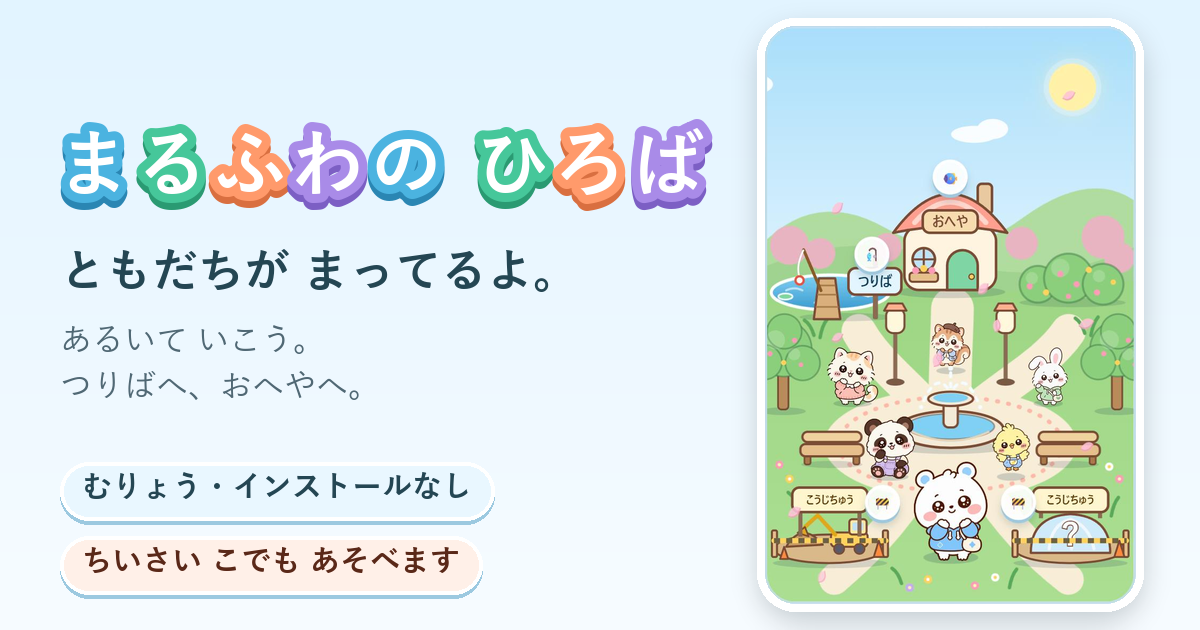
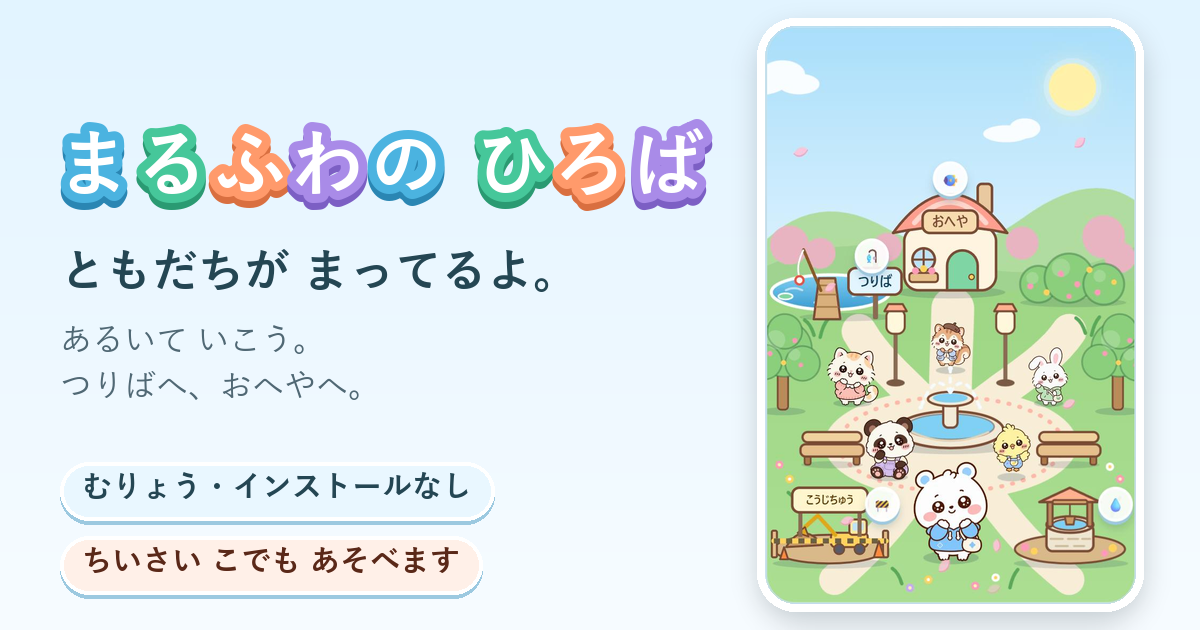
ひろばの「こうじちゅう」を 1つに へらし、もう 1つを「いど」に かえた（外部レビュー5「ひろばが さびしい」）
総司令部経由(外部レビュー5・実際に 遊んだ 人)：おにぎりキャッチを 外した あと、「こうじちゅう」が 2つ ならんで
「半分 できていない 場所」に 見える。→ 1つに へらし、もう 1つは「押したら 何か 起きる」小さな 物に 置きかえる。

- 右下の こうじちゅう(？の ドーム・lot2・kouji2)を 廃止。左下の こうじちゅう(かんばんの うらがえり)は そのまま
- 右下に「いど」を 置いた(石の 井戸・屋根・ロープ・つるべ・はなの 色は きせつで かわる・ふゆは 屋根に 雪・しゃしんにも 写る)
- いどを さわる／「いど」ボタン(ほかの ばしょ)／スペースキー で のぞく：水面の まるを 出して、まるふわの かおが うつる。
  3回に 1回(見えない ところで 数える)、さかなの かげが すーっと とおる。音は ぽちゃん。読みあげは 「いどを のぞいたよ。みずの おもてに、まるふわの かおが うつって いるよ」／「いどの なかを、さかなの かげが すーっと とおったよ」
- かぞえない・くらべない・きろくしない(ひみつノートにも 出さない)・なにも へらない・罰も ない・数字を 出さない
- うごきを へらす 設定：水の わ・ゆれ・さかなの およぎは せず、ふっと 出て きえる だけ(opacity だけ)。ちかちかは しない。水面は 4びょうほどで かならず きえる
- ボタンの まとまりは aria-label「ほかの ばしょ」(前は「まだ できて いない ばしょ」)。English は ひろば自身の 表に 追加
  (Well／Take a look／Other places／Walking to the well.／In front of the well. Press Space to look in.／…)
- 近づいた しらせは「いどの まえ。スペースキーで のぞけるよ」(はいれる、とは 言わない)
- 直した ついで：いどを のぞいた 読みあげを「〇〇の まえ」の しらせが 上書きしないようにした
- 共有カード og.png を 新しい ひろばで 作りなおし(右下が いど)

検査: ひろば 227 → 238(工事中1つ・いどの 試験 11を 足した)・プライバシー 20・種類 37＋English 16・
文字の色 昼夜 23＋23(いどを のぞいた 場面を 足した)・ちかちか 19(いどの 場面を 足した)
未確認: 実機の 見え方・耳での 確認・小さい子や 障がいのある人の 指や 読みあげでの 使い心地

push は していない。

diff --git a/hiroba/index.html b/hiroba/index.html
@@ -201,7 +201,7 @@ button.zk.on{--c1:#fff4c2;--c2:#ffe27a99}
 .mark{position:absolute;left:50%;top:-6%;transform:translateX(-50%);z-index:2;width:34px;height:34px;display:flex;align-items:center;justify-content:center;font-size:1.15rem;line-height:1;background:#ffffffe6;border:3px solid #fff;border-radius:50%;box-shadow:0 3px 0 #9cc9e0,0 6px 8px #24465333;animation:markbob 2.2s ease-in-out infinite;pointer-events:none}
 .prop[data-id=pier] .mark{left:74%}
 .prop[data-id=lot1] .mark{left:92%;top:2%}
-.prop[data-id=lot2] .mark{left:8%;top:2%}
+.prop[data-id=well] .mark{left:86%;top:2%}
 @supports (width:1cqw){#scene{container-type:inline-size}.mark{width:clamp(22px,9.44cqw,34px);height:clamp(22px,9.44cqw,34px);font-size:clamp(.8rem,3.19cqw,1.15rem);border-width:clamp(2px,.83cqw,3px)}}   /* せまい がめんでは しるしを ちいさく（かんばんの もじに かぶらない）。しるしは かざり */
 @keyframes markbob{50%{translate:0 -4px}}
 /* ひとの すがた。かげ・からだの ゆれは JS。じっと している ときは ゆっくり いきを する */
@@ -222,6 +222,12 @@ button.pulse{animation:snapPulse 1.2s ease-in-out infinite;outline:3px solid #ff
 @keyframes snapPulse{50%{scale:1.06}}
 @media(prefers-reduced-motion:reduce){button.pulse{animation:none}}
 .kouji-back{position:absolute;left:19%;top:1%;width:62%;height:31%;display:flex;align-items:center;justify-content:center;text-align:center;background:#fff6cf;border:2.5px solid #7a4b34;border-radius:8px;color:#593700;font-weight:900;font-size:clamp(9px,2.9vw,12px);line-height:1.2;pointer-events:none;z-index:2}   /* こうじちゅうの かんばんの うら（きつねの 字・5回で うらがえり） */
+.well-look{position:absolute;z-index:950;pointer-events:none;width:27%;aspect-ratio:1;translate:-50% -50%;border-radius:50%;overflow:hidden;border:4px solid #fff;box-shadow:0 0 0 3px #7a4b34,0 8px 14px #24465340;background:radial-gradient(circle at 50% 38%,#d5effb,#6fb8df 68%,#3f86b3)}   /* いどを のぞいた 水面（まるふわの かおが うつる・ときどき さかなの かげ） */
+.well-look img{position:absolute;left:4%;top:8%;width:92%;height:auto;opacity:.92;filter:saturate(.9) blur(.5px)}
+.well-look::after{content:"";position:absolute;inset:0;border-radius:50%;background:linear-gradient(#8fd0f055,#3f86b366);pointer-events:none}
+.well-look .wl-ring{position:absolute;inset:12%;border-radius:50%;border:2px solid #ffffffb8;z-index:2}
+.well-look .wl-ring.b{inset:30%}
+.well-look .wl-fish{position:absolute;left:14%;top:56%;width:72%;height:auto;opacity:.6;z-index:1}
 .actor.sitting img{translate:0 6px}   /* ベンチで ひとやすみ：すわる 絵は ないので、ベンチの まえへ ちょっと さげて おく */
 #wishstars{position:absolute;inset:0;z-index:3;pointer-events:none}
 .wstar{position:absolute;width:44px;height:44px;margin:-22px 0 0 -22px;display:grid;place-items:center;font-size:15px;line-height:1;color:#ffe27a;text-shadow:0 0 6px #fff6b0;opacity:.78;cursor:pointer;pointer-events:auto;animation:wtwinkle 3.6s ease-in-out infinite;animation-delay:calc(var(--d,0) * 1s)}   /* つりばで ねがった ぶんの 星（よるだけ・さわれる・44px） */
@@ -247,6 +253,7 @@ button[data-dest=oheya]{--c1:#fff0ec;--c2:#ffb8a8;--side:#df806f;--ink:#5a1f14}
 #places-wait{display:grid;grid-template-columns:repeat(2,1fr);gap:10px;margin:0 0 14px}
 #places-wait button{min-height:68px;--c1:#fff8d8;--c2:#ffe59a;--side:#d39a1c;--ink:#593700;border-style:dashed}
 #places-wait button b{font-size:1.4rem}
+#places-wait button[data-dest=ido]{--c1:#e9f7ff;--c2:#a9dcf5;--side:#4a9fca;--ink:#0f3a55;border-style:solid}
 /* ともだち */
 #friends h2{font-size:1rem;margin:4px 0 0;text-align:center}
 #pal-row{display:flex;gap:6px 6px;justify-content:center;flex-wrap:wrap;list-style:none;padding:0;margin:6px 0 10px}
@@ -401,9 +408,9 @@ body.calm .cloud.c2{left:56%}
     <button type="button" data-dest="tsuri"><b aria-hidden="true">🎣</b>つりば<small>つりびより</small></button>
     <button type="button" data-dest="oheya"><b aria-hidden="true">🐠</b>まるふわの おへや<small>すいそう</small></button>
   </nav>
-  <nav id="places-wait" aria-label="まだ できて いない ばしょ">
+  <nav id="places-wait" aria-label="ほかの ばしょ">
     <button type="button" data-dest="kouji1"><b aria-hidden="true">🚧</b>こうじちゅう<small>ちかぢか あそべます <span aria-hidden="true">🎈</span></small></button>
-    <button type="button" data-dest="kouji2"><b aria-hidden="true">🚧</b>こうじちゅう<small>ちかぢか あそべます <span aria-hidden="true">✨</span></small></button>
+    <button type="button" data-dest="ido"><b aria-hidden="true">💧</b>いど<small>のぞいて みよう</small></button>
   </nav>
 
   <section id="friends" aria-labelledby="friends-title">
@@ -647,6 +654,7 @@ const sfx = {
   splash: pan => { zap(.09, 0, .05, pan); tone(880, .05, 'square', .02, .03, 1320, pan); },
   spin: () => chord([523, 659, 784, 1047, 784, 1047, 1319], .05),
   water: pan => tone(1568, .04, 'triangle', 0, .04, 2093, pan),
+  well: pan => { tone(392, .1, 'triangle', 0, .04, 294, pan); tone(587, .07, 'triangle', .13, .03, 440, pan); },
   bird: pan => asKind('amb', () => { tone(2400, .045, 'square', 0, .012, 3000, pan); tone(3000, .045, 'square', .07, .012, 2500, pan); }),
   cricket: pan => asKind('amb', () => { for (let i = 0; i < 3; i++) tone(4200, .02, 'square', i * .05, .006, 0, pan); })
 };
@@ -743,7 +751,7 @@ const SVG = {
   bench: `<svg viewBox="0 0 70 38" xmlns="http://www.w3.org/2000/svg"><ellipse cx="35" cy="34" rx="30" ry="3.5" fill="#0b2a4a" opacity=".14"/><rect x="8" y="24" width="6" height="10" rx="2" fill="#a9794a" stroke="#7a4b34" stroke-width="1.6"/><rect x="56" y="24" width="6" height="10" rx="2" fill="#a9794a" stroke="#7a4b34" stroke-width="1.6"/><rect x="4" y="14" width="62" height="12" rx="5" fill="#e5bf8c" stroke="#7a4b34" stroke-width="2.2"/><rect x="6" y="2" width="58" height="10" rx="5" fill="#f0d29e" stroke="#7a4b34" stroke-width="2.2"/></svg>`,
   lot1: `<svg viewBox="0 0 122 80" xmlns="http://www.w3.org/2000/svg"><ellipse cx="61" cy="76" rx="56" ry="5" fill="#0b2a4a" opacity=".15"/><ellipse cx="60" cy="62" rx="54" ry="14" fill="#d9b98a" stroke="#7a4b34" stroke-width="2"/><path d="M18 60 Q34 34 54 58Z" fill="#c99a62" stroke="#7a4b34" stroke-width="2" stroke-linejoin="round"/><g><rect x="62" y="46" width="36" height="14" rx="4" fill="#ffd25e" stroke="#7a4b34" stroke-width="2"/><rect x="80" y="33" width="17" height="15" rx="3" fill="#ffe9a0" stroke="#7a4b34" stroke-width="2"/><rect x="83" y="36" width="11" height="8" rx="2" fill="#bfe3f5"/><circle cx="70" cy="62" r="5" fill="#5a5a66" stroke="#7a4b34" stroke-width="1.6"/><circle cx="90" cy="62" r="5" fill="#5a5a66" stroke="#7a4b34" stroke-width="1.6"/><g class="arm"><path d="M66 48 L48 30 L36 42" fill="none" stroke="#e0a61c" stroke-width="4" stroke-linecap="round" stroke-linejoin="round"/><path d="M36 42 l-7 6 l11 3z" fill="#e0a61c" stroke="#7a4b34" stroke-width="1.6" stroke-linejoin="round"/></g></g><g stroke="#7a4b34" stroke-width="2"><rect x="4" y="44" width="5" height="26" rx="1.5" fill="#e5bf8c"/><rect x="113" y="44" width="5" height="26" rx="1.5" fill="#e5bf8c"/></g><line x1="6" y1="54" x2="116" y2="54" stroke="#ffd25e" stroke-width="5" stroke-linecap="round"/><line x1="6" y1="54" x2="116" y2="54" stroke="#3a3a3a" stroke-width="5" stroke-dasharray="6 6" opacity=".75"/><path d="M104 70 l5-16 l5 16z" fill="#ff8a3c" stroke="#7a4b34" stroke-width="1.8" stroke-linejoin="round"/><path d="M12 72 l4-12 l4 12z" fill="#ff8a3c" stroke="#7a4b34" stroke-width="1.8" stroke-linejoin="round"/><rect x="30" y="24" width="4" height="26" fill="#8a6a52"/><rect x="88" y="24" width="4" height="26" fill="#8a6a52"/><rect x="24" y="2" width="74" height="24" rx="7" fill="#fff6cf" stroke="#7a4b34" stroke-width="2.5"/><text x="61" y="18" text-anchor="middle" font-size="11" font-weight="900" fill="#593700" font-family="system-ui,sans-serif">こうじちゅう</text></svg>`,
   stone: `<svg viewBox="0 0 34 52" xmlns="http://www.w3.org/2000/svg"><ellipse cx="17" cy="49" rx="15" ry="3.4" fill="#0b2a4a" opacity=".16"/><path d="M5 48 L5 22 Q5 10 17 10 Q29 10 29 22 L29 48Z" fill="#e9e2d4" stroke="#7a4b34" stroke-width="2" stroke-linejoin="round"/><path d="M9 44 V23 Q9 15 15 14" fill="none" stroke="#fff" stroke-width="2.4" stroke-linecap="round" opacity=".8"/><path d="M17 1 l2.6 5.6 l6 .7 l-4.5 4 l1.3 6 l-5.4 -3.1 l-5.4 3.1 l1.3 -6 l-4.5 -4 l6 -.7z" fill="#ffe27a" stroke="#e0a61c" stroke-width="1.3" stroke-linejoin="round" transform="translate(0 -1)"/><rect x="9" y="28" width="16" height="10" rx="3" fill="#fff6cf" stroke="#c99a62" stroke-width="1.2"/><text x="17" y="35.6" text-anchor="middle" font-size="4.6" font-weight="900" fill="#7a4b34" font-family="system-ui,sans-serif">ありがとう</text></svg>`,
-  lot2: `<svg viewBox="0 0 122 80" xmlns="http://www.w3.org/2000/svg"><ellipse cx="61" cy="76" rx="56" ry="5" fill="#0b2a4a" opacity=".15"/><ellipse cx="60" cy="62" rx="54" ry="14" fill="#d9b98a" stroke="#7a4b34" stroke-width="2"/><path d="M22 66 Q22 30 61 28 Q100 30 100 66Z" fill="#cfeaf9" stroke="#7a4b34" stroke-width="2.2" stroke-linejoin="round"/><path d="M40 62 Q42 38 61 33 M62 62 Q66 38 61 33 M84 62 Q80 40 61 33" fill="none" stroke="#ffffffb0" stroke-width="3" stroke-linecap="round"/><text x="61" y="58" text-anchor="middle" font-size="28" font-weight="900" fill="#fff" stroke="#7a4b34" stroke-width="2" paint-order="stroke" font-family="system-ui,sans-serif">？</text><g stroke="#7a4b34" stroke-width="2"><rect x="4" y="44" width="5" height="26" rx="1.5" fill="#e5bf8c"/><rect x="113" y="44" width="5" height="26" rx="1.5" fill="#e5bf8c"/></g><line x1="6" y1="54" x2="116" y2="54" stroke="#ffd25e" stroke-width="5" stroke-linecap="round"/><line x1="6" y1="54" x2="116" y2="54" stroke="#3a3a3a" stroke-width="5" stroke-dasharray="6 6" opacity=".75"/><path d="M104 70 l5-16 l5 16z" fill="#ff8a3c" stroke="#7a4b34" stroke-width="1.8" stroke-linejoin="round"/><rect x="30" y="24" width="4" height="8" fill="#8a6a52"/><rect x="88" y="24" width="4" height="8" fill="#8a6a52"/><rect x="24" y="2" width="74" height="24" rx="7" fill="#fff6cf" stroke="#7a4b34" stroke-width="2.5"/><text x="61" y="18" text-anchor="middle" font-size="11" font-weight="900" fill="#593700" font-family="system-ui,sans-serif">こうじちゅう</text></svg>`
+  well: `<svg viewBox="0 0 122 80" xmlns="http://www.w3.org/2000/svg"><ellipse cx="61" cy="76" rx="56" ry="5" fill="#0b2a4a" opacity=".15"/><ellipse cx="60" cy="62" rx="54" ry="14" fill="#d9b98a" stroke="#7a4b34" stroke-width="2"/><g stroke="#7a4b34" stroke-linejoin="round"><rect x="37" y="38" width="46" height="26" rx="6" fill="#efe6d2" stroke-width="2.4"/><path d="M45 44 h10 M62 44 h12 M41 52 h12 M58 52 h10 M72 52 h8 M46 59 h12 M64 59 h10" stroke="#cdbb9a" stroke-width="2" stroke-linecap="round" fill="none"/><ellipse cx="60" cy="38" rx="23" ry="8" fill="#efe6d2" stroke-width="2.4"/><ellipse cx="60" cy="38" rx="17" ry="5.4" style="fill:var(--water1)" stroke-width="1.6"/><rect x="38" y="12" width="5" height="28" rx="2" fill="#b98a5a" stroke-width="2"/><rect x="77" y="12" width="5" height="28" rx="2" fill="#b98a5a" stroke-width="2"/><path d="M30 16 L60 2 L90 16Z" fill="#ffb18f" stroke-width="2.4"/><rect x="43" y="14" width="34" height="4" rx="2" fill="#d5a06a" stroke-width="1.8"/></g><path d="M38 12 L60 2.5 L82 12 Q60 8 38 12Z" fill="#fff" stroke="none" style="opacity:var(--cap,0)"/><path d="M60 18 V30" stroke="#7a4b34" stroke-width="1.6"/><path d="M55 30 h10 l-1.5 8 h-7z" fill="#c99a62" stroke="#7a4b34" stroke-width="1.8" stroke-linejoin="round"/><g stroke="none" style="opacity:var(--blo,1)"><circle cx="16" cy="60" r="4" style="fill:var(--bl1,#ff9ab8)"/><circle cx="25" cy="64" r="3.4" style="fill:var(--bl2,#ffd25e)"/><circle cx="102" cy="61" r="4" style="fill:var(--bl2,#ffd25e)"/><circle cx="94" cy="66" r="3.4" style="fill:var(--bl1,#ff9ab8)"/></g></svg>`,
 };
 const PROPS = [
   { id: 'pier', x: 78, y: 286, w: 104, h: 76, svg: SVG.pier, dest: 'tsuri', mark: '🎣' },
@@ -758,14 +766,14 @@ const PROPS = [
   { id: 'bench-r', x: 296, y: 430, w: 70, h: 38, svg: SVG.bench, secret: 'bench', block: { rect: [262, 418, 330, 432] } },
   { id: 'stone', x: 342, y: 446, w: 30, h: 46, svg: SVG.stone, dest: 'thanks', mark: '⭐', block: { rect: [326, 430, 360, 450] } },
   { id: 'lot1', x: 62, y: 526, w: 122, h: 80, svg: SVG.lot1, dest: 'kouji1', mark: '🚧', block: { rect: [0, 452, 126, 528] } },
-  { id: 'lot2', x: 298, y: 526, w: 122, h: 80, svg: SVG.lot2, dest: 'kouji2', mark: '🚧', block: { rect: [234, 452, 360, 528] } }
+  { id: 'well', x: 298, y: 526, w: 122, h: 80, svg: SVG.well, dest: 'ido', mark: '💧', block: { rect: [234, 452, 360, 528] } }
 ];
 const DEST = {
   tsuri: { name: 'つりば', at: { x: 90, y: 296 }, kind: 'go', url: () => new URL('../', location.href).href, pan: -.8, motif: () => { tone(660, .08, 'triangle', 0, .05, 990); zap(.06, .08, .04); } },
   oheya: { name: 'まるふわの おへや', at: { x: 182, y: 286 }, kind: 'tank', pan: 0, motif: () => { chord([523, 659, 784], .09, 'triangle'); } },
   thanks: { name: 'ありがとうの いし', at: { x: 320, y: 444 }, kind: 'thanks', pan: .8 },
   kouji1: { name: 'こうじちゅうの ばしょ', at: { x: 62, y: 540 }, kind: 'wait', line: 'ここは まだ こうじちゅう。ちかぢか あそべるよ。たのしみに まっててね', pan: -.8 },
-  kouji2: { name: 'こうじちゅうの ばしょ（ちかぢか）', at: { x: 298, y: 540 }, kind: 'wait', line: 'ここも こうじちゅう。ちかぢか あそべるよ。おたのしみに', pan: .8 }
+  ido: { name: 'いど', at: { x: 298, y: 540 }, kind: 'well', pan: .8 }
 };
 
 // ─── あるける ところ（10×10 の ます）と、みちさがし ───
@@ -1311,7 +1319,7 @@ function groupEnd() { clearTimeout(groupTimer); $('snap').classList.remove('puls
 // ─── こうじちゅうの かんばん（04 の ひろば7・匂わせだけ）───
 // 「こうじちゅう」の 場所（つづけて 5びょう いないに 5回）を さわると、かんばんが うらがえり、きつねの 字で「もうすこし まってね」。
 // なにが できるかは 言わない（予告に しない・カードゲーム 等は 今は 手を つけない 方針）。ただの あそびごころ。うごきを へらす 設定では うらがえらず、ふっと 出て きえる だけ
-const koujiTaps = { kouji1: { n: 0, at: -99 }, kouji2: { n: 0, at: -99 } };
+const koujiTaps = { kouji1: { n: 0, at: -99 } };
 function koujiTap(id) { const t = koujiTaps[id]; if (!t) return 0; if (T - t.at > 5) t.n = 0; t.n += 1; t.at = T; return t.n; }
 function koujiFlip(id) {
   koujiTaps[id].n = 0; seen('kouji');
@@ -1328,6 +1336,35 @@ function koujiFlip(id) {
   setTimeout(done, 4600);   // うごきが とまって いても（裏の 画面でも）かならず きえる
 }
 
+// ─── いど（こうじちゅうを 1つに した あとの、ちいさな しかけ）───
+// のぞくと 水面に まるふわの かおが うつる。3回に 1回、さかなの かげが すーっと とおる。かぞえない・くらべない・きろくしない・なにも へらない・罰も ない。
+// うごきを へらす 設定では ゆれず、ふっと 出て きえる だけ（ちかちかは しない）。ふきだしは 4びょうほどで かならず きえる。読みあげは narrate（ラベル つき）。
+let wellN = 0, wellEl = null, wellTimer = 0;
+function wellPeek() {
+  lastInput = T; wellN += 1;
+  const fish = wellN % 3 === 0;   // 見えない ところで 数えて いる だけ（どこにも 出さない）
+  hop(player, 1); setFace(fish ? 'sparkle' : 'smile', 2600); sfx.well(panRel(298));
+  if (wellEl) { wellEl.remove(); wellEl = null; } clearTimeout(wellTimer);
+  const el = document.createElement('div'); el.className = 'well-look'; el.setAttribute('aria-hidden', 'true'); el.style.left = (298 / W * 100) + '%'; el.style.top = (366 / H * 100) + '%';
+  const rings = ['wl-ring', 'wl-ring b'].map(c => { const r = document.createElement('i'); r.className = c; return r; });
+  const im = new Image(); im.alt = ''; im.draggable = false; im.src = player.img.currentSrc || player.img.src;
+  el.append(...rings, im);
+  let fishEl = null;
+  if (fish) { fishEl = document.createElementNS('http://www.w3.org/2000/svg', 'svg'); fishEl.setAttribute('class', 'wl-fish'); fishEl.setAttribute('viewBox', '0 0 44 22'); fishEl.innerHTML = '<path d="M3 11 Q14 0 30 11 Q14 22 3 11Z M29 11 L41 3 L39 11 L41 19Z" fill="#134a6b"/>'; el.append(fishEl); }
+  scene.append(el); wellEl = el;
+  const done = () => { if (wellEl === el) wellEl = null; el.remove(); };
+  const still = reduce(), life = still ? 3600 : 4200;
+  el.animate(still ? [{ opacity: 0 }, { opacity: 1, offset: .1 }, { opacity: 1, offset: .9 }, { opacity: 0 }] : [{ opacity: 0, scale: '.6' }, { opacity: 1, scale: '1', offset: .12 }, { opacity: 1, scale: '1', offset: .88 }, { opacity: 0, scale: '.92' }], { duration: life, easing: 'ease-in-out' }).onfinish = done;
+  if (!still) {
+    rings.forEach((r, i) => r.animate([{ scale: '.3', opacity: .9 }, { scale: '1', opacity: 0 }], { duration: 1500, delay: 250 + i * 500, iterations: 2, easing: 'ease-out', fill: 'backwards' }));
+    im.animate([{ rotate: '-2deg' }, { rotate: '2deg' }, { rotate: '-2deg' }], { duration: 2400, iterations: 2, easing: 'ease-in-out' });
+    if (fishEl) fishEl.animate([{ translate: '90% 0', opacity: 0 }, { translate: '40% 0', opacity: .55, offset: .25 }, { translate: '-40% 0', opacity: .55, offset: .75 }, { translate: '-90% 0', opacity: 0 }], { duration: 2800, delay: 700, easing: 'ease-in-out', fill: 'backwards' });
+  }
+  speak(player, fish ? 'あ、さかな！' : 'わあ…', 2200, true);
+  narrate(fish ? 'いどの なかを、さかなの かげが すーっと とおったよ' : 'いどを のぞいたよ。みずの おもてに、まるふわの かおが うつって いるよ');
+  wellTimer = setTimeout(done, life + 400);   // うごきが とまって いても（裏の 画面でも）かならず きえる
+}
+
 // ─── いきさき ───
 let trip = null;
 const hooks = { navigate: url => location.assign(url) };
@@ -1341,6 +1378,7 @@ function goDest(id) {
 function arrive(id) {
   const d = DEST[id]; if (!trip || trip.id !== id) return;
   if (d.kind === 'thanks') { trip = null; sfx.arrive(); openThanks(); return; }
+  if (d.kind === 'well') { trip = null; wellPeek(); return; }
   if (d.kind === 'wait') { trip = null; if (koujiTap(id) >= 5) { koujiFlip(id); return; } sfx.hammer(); setFace('apricot', 2600); hop(player, 2); speak(player, 'こうじちゅう だって', 2200, true); narrate(d.line); return; }
   sfx.arrive(); setFace('sparkle', 3000);
   if (d.kind === 'tank') { enterTank(); return; }
@@ -1505,7 +1543,7 @@ function update(dt) {
   if (faceUntil && T > faceUntil) setFace('blue');
   for (const b of bubbles.slice()) if (T > b.until) removeBubble(b);
   if (!trip || !trip.leaving) for (const f of friends) if (f.cool <= 0 && f.talking <= 0 && dist(f, player) < 58 && !player.path.length && !player.then) greet(f);
-  if (T > nextNear) { nextNear = T + .35; const t = nearestThing(), note = t ? t.kind + (t.id || t.name) : ''; if (note !== nearNote) { nearNote = note; if (t && (kb || !player.moving) && !trip && !(t.kind === 'friend' && bubbles.some(b => b.actor === t.f))) narrate(t.kind === 'dest' ? t.name + 'の まえ。スペースキーで はいれるよ' : t.kind === 'friend' ? t.name + 'が ちかくに いるよ' : 'ふんすいの ちかく'); } updateAmbient(); }
+  if (T > nextNear) { nextNear = T + .35; const t = nearestThing(), note = t ? t.kind + (t.id || t.name) : ''; if (note !== nearNote) { nearNote = note; if (t && (kb || !player.moving) && !trip && !wellEl && !(t.kind === 'friend' && bubbles.some(b => b.actor === t.f))) narrate(t.kind === 'dest' ? (t.id === 'ido' ? 'いどの まえ。スペースキーで のぞけるよ' : t.name + 'の まえ。スペースキーで はいれるよ') : t.kind === 'friend' ? t.name + 'が ちかくに いるよ' : 'ふんすいの ちかく'); } updateAmbient(); }
   if (T > nextClock) { nextClock = T + 30; if (timeOfDay() !== curTime) { applyTime(); narrate(TIME_LABEL[curTime] + 'に なったよ'); } }
   // ひとりで ながく いると、ともだちが あいに くる
   if (!reduce() && T - lastInput > 30 && T > nextVisitAt && !trip && !player.path.length) {
@@ -1789,7 +1827,9 @@ addEventListener('load', () => {
     'なかまずかん': 'Friend Book', 'ひろばで あった なかまが、いろつきで ならぶよ。まだの こは しるしだけ。いそがなくて だいじょうぶ。': 'Friends you have met in the plaza appear in color. Friends you haven’t met yet are just a mark. No need to rush.',
     'なかまを さわって みてね。': 'Touch a friend!', 'ひろばを あるいて、なかまに あいにいこう。いそがなくて だいじょうぶ。': 'Walk around the plaza and meet some friends. No need to rush.',
     'なかまずかんを ひらいたよ。あった なかまが ならんで いるよ。': 'Opened the Friend Book. The friends you have met are lined up.', 'なかまずかんを ひらいたよ。まだ だれにも あって いないよ。': 'Opened the Friend Book. You haven’t met anyone yet.', 'なかまずかんを とじたよ。': 'Closed the Friend Book.',
-    'つりば、おへや。すきな ところへ どうぞ': 'Fishing spot, the room. Go wherever you like.'
+    'つりば、おへや。すきな ところへ どうぞ': 'Fishing spot, the room. Go wherever you like.',
+    'いど': 'Well', 'のぞいて みよう': 'Take a look', 'ほかの ばしょ': 'Other places', 'いどへ あるいて いくよ': 'Walking to the well.', 'いどの まえ。スペースキーで のぞけるよ': 'In front of the well. Press Space to look in.',
+    'いどを のぞいたよ。みずの おもてに、まるふわの かおが うつって いるよ': 'You peeked into the well. Marufuwa’s face is reflected on the water.', 'いどの なかを、さかなの かげが すーっと とおったよ': 'A fish’s shadow slid past deep in the well.', 'わあ…': 'Wow…', 'あ、さかな！': 'Oh, a fish!'
   }, DROP_EN = { 'さくらのはなびら': 'cherry blossom petal', 'あおいは': 'fresh green leaf', 'どんぐり': 'acorn', 'ゆきのけっしょう': 'snow crystal' }, dropEn = n => DROP_EN[n] || null;
   const withA = s => (/^[aeiou]/i.test(s) ? 'an ' : 'a ') + s, capA = s => withA(s).replace(/^./, c => c.toUpperCase());   // a／an（acorn は an）
   if (E.add) E.add({ ex: Object.assign({ 'うごき：すくない（つりびよりの「うごきを へらす」に あわせて いるよ）': 'Motion: Less (matches the setting in Fishing Days)' }, window.TsuriMame ? Object.fromEntries(window.TsuriMame.lines.map(l => [l.ja, l.en])) : {}, { 'ベンチ': 'Bench', 'ベンチへ あるいて いくよ': 'Walking to the bench.', 'ベンチに すわったよ。ゆっくり やすもう': 'You sat on the bench. Let’s rest slowly.', 'きょうも きてくれて、うれしいな': 'Thank you for coming again today. I’m happy!', 'いっしょに ひとやすみ、いいね': 'Resting together is nice.', 'ねがいの ほし': 'Wishing Star', 'つりばで ねがった ほしだよ': 'A star from a wish you made at the fishing spot.', 'なかまが あつまって きたよ。「しゃしんを とる」を おしてね': 'Everyone gathered around. Press “Take a photo”!', 'もうすこし まってね': 'Coming soon. Please wait a little!', 'かんばんの うらに、なにか かいて あったよ。「もうすこし まってね」': 'There was something written on the back of the sign: “Coming soon. Please wait a little!”' }, SEASON_EN), rules: [
